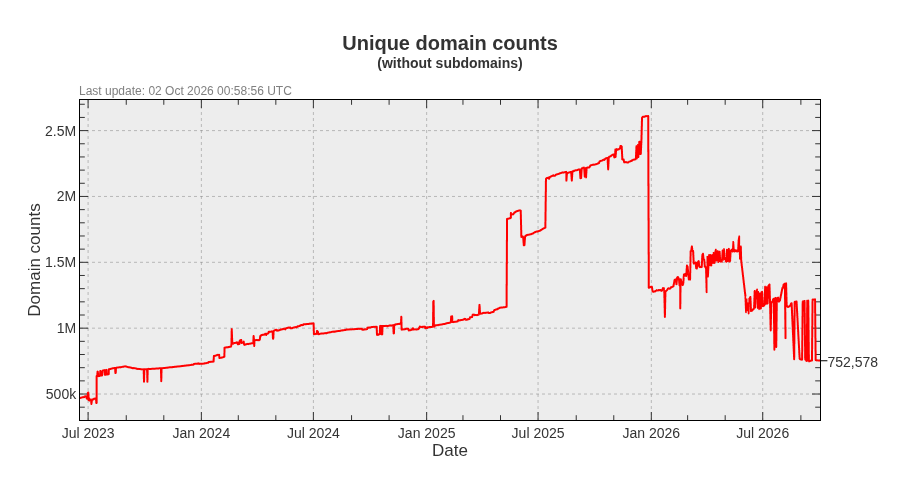
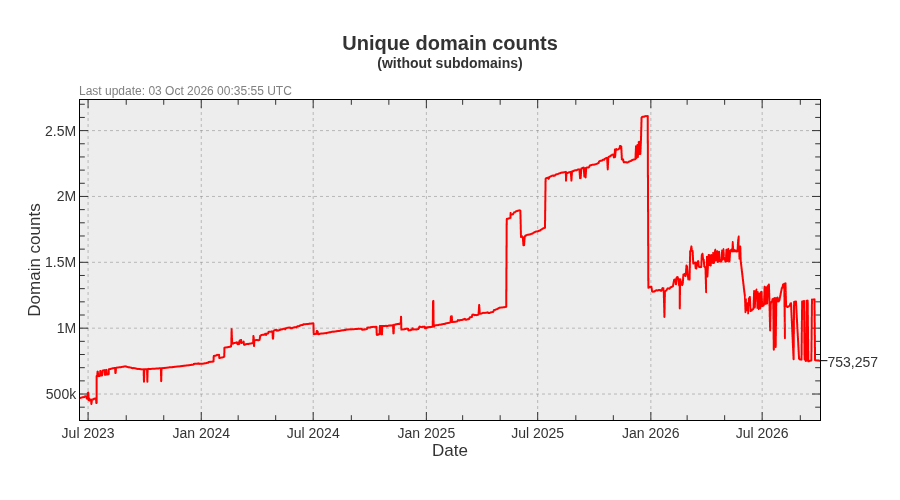
Update pages

diff --git a/README.md b/README.md
@@ -3,22 +3,22 @@ A blocklist file for blocking ads, trackers and malware domains.
 
[1 lines of base64/hex data omitted]
 
-- Unique domains: 1,474,793
-- Without subdomains: 752,578
-- Last update: 02 Oct 2026 00:58:56 UTC
-- Version: 2026.10.02.01
+- Unique domains: 1,475,409
+- Without subdomains: 753,257
+- Last update: 03 Oct 2026 00:35:55 UTC
+- Version: 2026.10.03.01
 
 
 ## Downloads:
 
 | Format             | Domain count      | Download Link |
 |------------------ | -----------------|-------------|
-| *Adblock Plus*     | 752,578 | [bad-hosts-abp](https://dl.cenk.app/bad-hosts/bad-hosts-abp) |
-| *Wildcard domains* | 752,578 | [bad-hosts-wildcard](https://dl.cenk.app/bad-hosts/bad-hosts-wildcard) |
-| *dnsmasq*          | 752,578 | [bad-hosts-dnsmasq](https://dl.cenk.app/bad-hosts/bad-hosts-dnsmasq) |
-| *hosts*            | 1,474,793 | [hosts](https://dl.cenk.app/bad-hosts/hosts) |
-| *hosts (ipv6)*     | 1,474,793 | [hosts-ipv6](https://dl.cenk.app/bad-hosts/hosts-ipv6) |
-| *Plain domains*    | 1,474,793 | [bad-hosts-domains](https://dl.cenk.app/bad-hosts/bad-hosts-domains) |
+| *Adblock Plus*     | 753,257 | [bad-hosts-abp](https://dl.cenk.app/bad-hosts/bad-hosts-abp) |
+| *Wildcard domains* | 753,257 | [bad-hosts-wildcard](https://dl.cenk.app/bad-hosts/bad-hosts-wildcard) |
+| *dnsmasq*          | 753,257 | [bad-hosts-dnsmasq](https://dl.cenk.app/bad-hosts/bad-hosts-dnsmasq) |
+| *hosts*            | 1,475,409 | [hosts](https://dl.cenk.app/bad-hosts/hosts) |
+| *hosts (ipv6)*     | 1,475,409 | [hosts-ipv6](https://dl.cenk.app/bad-hosts/hosts-ipv6) |
+| *Plain domains*    | 1,475,409 | [bad-hosts-domains](https://dl.cenk.app/bad-hosts/bad-hosts-domains) |
 
 ## Domain count history
 ### With subdomains
